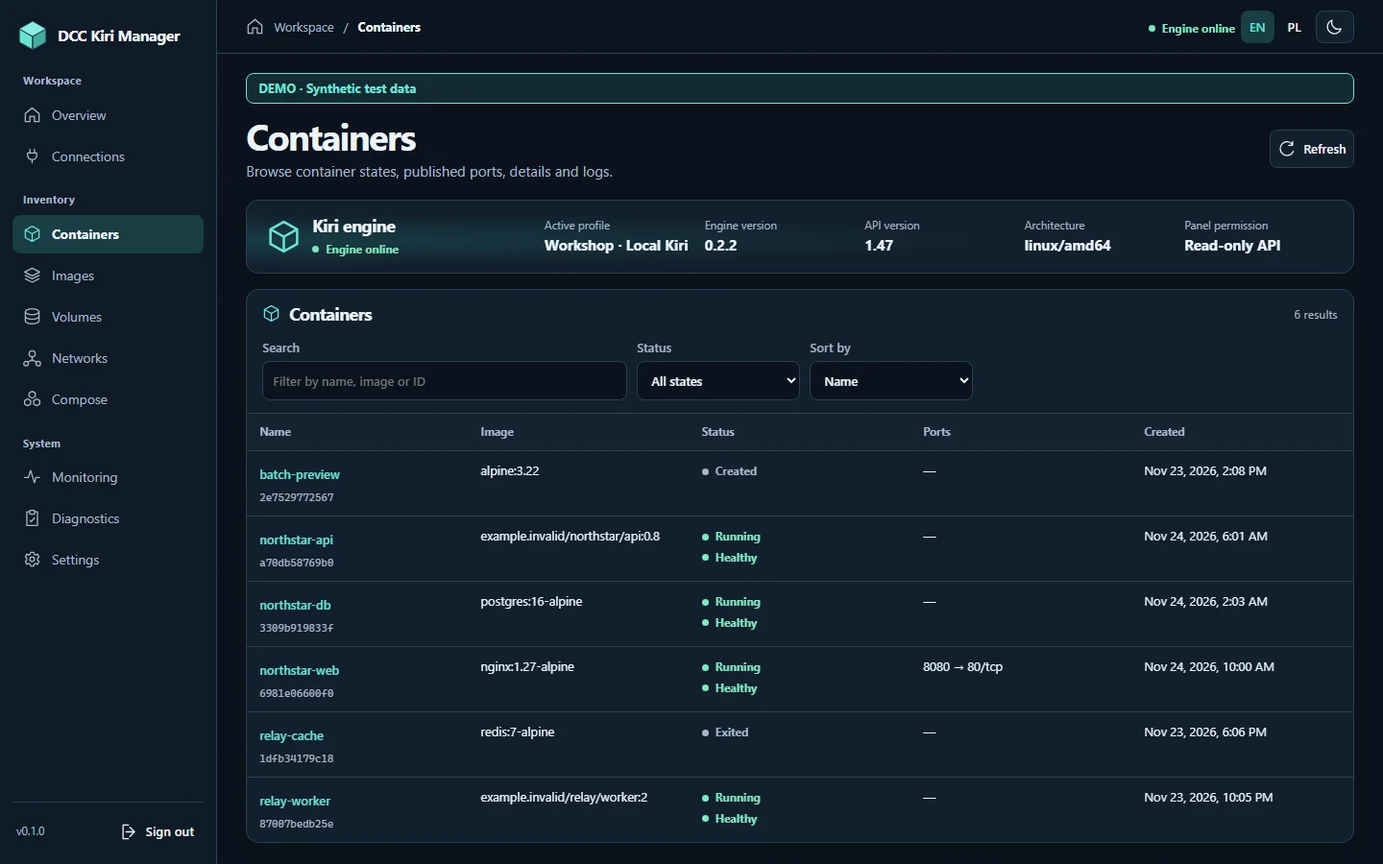
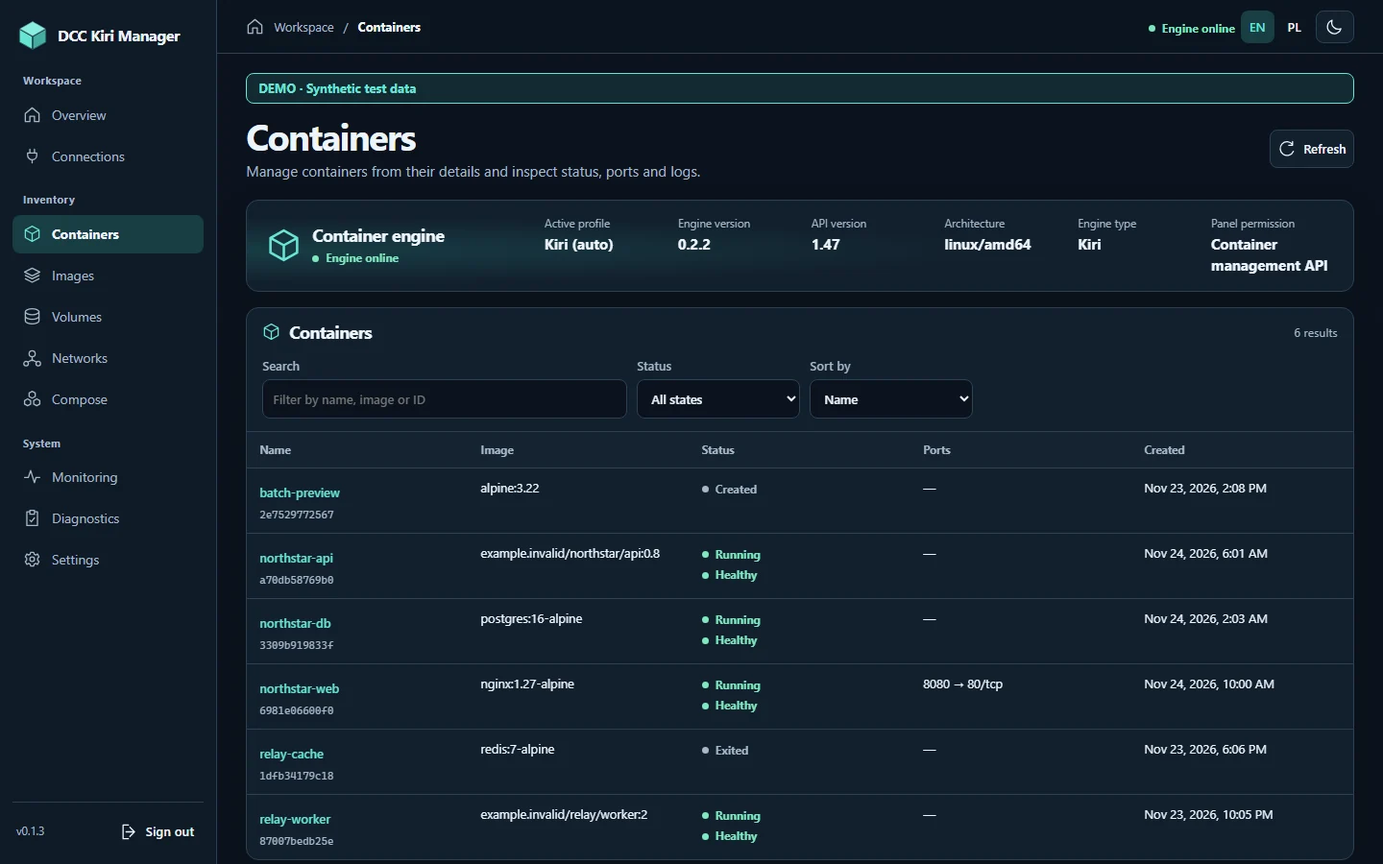
docs(kiri): publish 0.1.3 release materials

diff --git a/apps/kiri-manager/site/pl/index.html b/apps/kiri-manager/site/pl/index.html
@@ -3,11 +3,11 @@
 <head>
   <meta charset="utf-8">
   <meta name="viewport" content="width=device-width, initial-scale=1">
-  <title>DCC Kiri Manager · Panel WWW dla Kiri</title><meta name="description" content="Niezależny panel tylko do odczytu dla kontenerów Kiri, usług lokalnych i projektów Compose.">
+  <title>DCC Kiri Manager · Panel Kiri i Docker</title><meta name="description" content="Niezależny panel do zarządzania kontenerami Kiri i Docker, profilami SSH i projektami Compose.">
   <meta property="og:type" content="website"><meta property="og:locale" content="pl_PL">
-  <meta property="og:title" content="DCC Kiri Manager"><meta property="og:description" content="Niezależny panel tylko do odczytu dla kontenerów Kiri, usług lokalnych i projektów Compose.">
+  <meta property="og:title" content="DCC Kiri Manager"><meta property="og:description" content="Niezależny panel do zarządzania kontenerami Kiri i Docker, profilami SSH i projektami Compose.">
   <meta property="og:image" content="../assets/social-preview.png"><meta property="og:image:width" content="1200"><meta property="og:image:height" content="630"><meta property="og:image:alt" content="Przegląd DCC Kiri Manager z danymi testowymi">
-  <meta name="twitter:card" content="summary_large_image"><meta name="twitter:title" content="DCC Kiri Manager"><meta name="twitter:description" content="Niezależny panel tylko do odczytu dla kontenerów Kiri, usług lokalnych i projektów Compose."><meta name="twitter:image" content="../assets/social-preview.png">
+  <meta name="twitter:card" content="summary_large_image"><meta name="twitter:title" content="DCC Kiri Manager"><meta name="twitter:description" content="Niezależny panel do zarządzania kontenerami Kiri i Docker, profilami SSH i projektami Compose."><meta name="twitter:image" content="../assets/social-preview.png">
   <!-- pages-canonical -->
   <link rel="icon" href="../assets/mark.svg" type="image/svg+xml"><link rel="stylesheet" href="../assets/site.css"><script type="module" src="../assets/site.js"></script>
 </head>
@@ -23,15 +23,15 @@
   </div></header>
   <main id="main">
     <section class="frame hero">
-      <div><h1>DCC Kiri Manager</h1><p class="lead">Zobacz, co działa w Kiri.</p><p>Przeglądaj kontenery, obrazy, wolumeny, sieci i projekty Compose w jednym lekkim panelu.</p>
+      <div><h1>DCC Kiri Manager</h1><p class="lead">Zarządzaj Kiri i Docker z jednego panelu.</p><p>Przeglądaj zasoby silnika, zarządzaj kontenerami, konfiguruj zweryfikowane profile SSH i sprawdzaj projekty Compose.</p>
         <div class="buttons"><a class="button primary" href="#install">Instalacja</a><a class="button" href="https://github.com/hattimon/DCC/tree/main/apps/kiri-manager">Kod źródłowy ↗</a></div>
       </div>
       <div class="hero-image"><img id="hero-image" src="../assets/screenshots/dashboard-dark-pl.webp" data-dark="../assets/screenshots/dashboard-dark-pl.webp" data-light="../assets/screenshots/dashboard-light-pl.webp" width="1440" height="900" fetchpriority="high" alt="Przegląd DCC Kiri Manager z danymi testowymi · DEMO"></div>
     </section>
     <section class="section divider"><div class="frame pitch">
-      <div><h2>Lokalny panel dla Kiri</h2><p>Niezależny panel tylko do odczytu dla kontenerów Kiri, usług lokalnych i projektów Compose.</p><h3>Funkcje</h3>
-        <ul class="feature-list"><li>Zasoby, diagnostyka i ograniczony podgląd logów</li><li>Próbki CPU i pamięci wybranego kontenera</li><li>Projekty Compose, profile połączeń, dwa języki i motywy</li></ul></div>
-      <div><h2>Jak to działa</h2><p>Środowisko uruchamia panel, a zatwierdzony socket Unix łączy go z Kiri.</p>
+      <div><h2>Lokalny panel dla Kiri</h2><p>Niezależny panel do zarządzania kontenerami Kiri i Docker, profilami SSH i projektami Compose.</p><h3>Funkcje</h3>
+        <ul class="feature-list"><li>Start, stop, restart, pauza, wznowienie i usuwanie zatrzymanych kontenerów</li><li>Profile SSH z przypiętym kluczem hosta i szyfrowanymi poświadczeniami</li><li>Zasoby, ograniczone logi, próbki obciążenia i grupowanie Compose</li></ul></div>
+      <div><h2>Jak to działa</h2><p>Połącz się przez socket zatwierdzony przez administratora albo zweryfikowany profil SSH. Operacje wymagają potwierdzenia; wolumeny nazwane pozostają zachowane.</p>
         <ol class="flow"><li>Docker lub Kiri</li><li>DCC Kiri Manager</li><li>API silnika Kiri</li></ol>
       </div>
     </div></section>
@@ -53,8 +53,8 @@
     <section id="install" class="section divider"><div class="frame">
       <div class="section-heading"><div><h2>Instalacja</h2><p>Uruchom panel lokalnie. Kreator przeprowadzi Cię przez instalację Kiri i podłączenie zatwierdzonego socketu.</p></div><a href="https://github.com/hattimon/DCC/blob/main/apps/kiri-manager/docs/installation.pl.md">Dokumentacja ↗</a></div>
       <div class="ways">
-        <article><h3>Docker Compose</h3><p>Uruchom panel z nazwanym wolumenem i portem lokalnym. Na zgodnym hoście Linux dołącz konfigurację socketu.</p></article>
-        <article><h3>Bezpośrednio w Kiri</h3><p>Użyj zgodnego CLI, wskazując kontekst Kiri. Montowanie socketu zależy od hosta.</p></article>
+        <article><h3>Docker Compose</h3><p>Uruchom panel z nazwanym wolumenem i portem loopback. Użyj zgodnego lokalnego socketu lub dodaj zweryfikowany profil SSH.</p></article>
+        <article><h3>Bezpośrednio w Kiri</h3><p>Użyj zgodnego CLI lub zweryfikowanego profilu SSH. Dostęp do socketu zależy od konfiguracji hosta.</p></article>
         <article><h3>Sklep DCC</h3><p>DCC Kiri Manager znajdziesz w kategorii DCC. Po instalacji otwórz podany adres lokalny.</p></article>
       </div>
       <details class="install-help" id="pierwsze-logowanie">
@@ -68,7 +68,7 @@
       </div>
     </div></section>
     <section id="compatibility" class="section"><div class="frame"><h2>Zgodność</h2>
-      <p>Panel 0.1.0 przeszedł testy z Kiri Lite 0.2.2 na Ubuntu 24.04.5 LTS na amd64 i arm64. <a href="https://github.com/hattimon/DCC/actions/runs/45555032798">Wyniki GitHub Actions ↗</a></p>
+      <p>Wydanie 0.1.3 przeszło izolowane testy operacji i SSH z Dockerem oraz Kiri 0.2.2 na runnerach GitHub Ubuntu AMD64 i ARM64. Nie potwierdza to działania na prywatnym silniku Windows/WSL. <a href="https://github.com/hattimon/DCC/actions/runs/45767226482">Wyniki workflow wydania ↗</a></p>
       <table class="matrix" role="table"><thead role="rowgroup"><tr role="row"><th scope="col" role="columnheader">Host</th><th scope="col" role="columnheader">Architektura</th><th scope="col" role="columnheader">Środowisko panelu</th><th scope="col" role="columnheader">Połączenie z Kiri</th><th scope="col" role="columnheader">Status</th></tr></thead>
         <tbody role="rowgroup"><tr role="row"><td role="cell" data-label="Host">Windows 10/11</td><td role="cell" data-label="Architektura">amd64</td><td role="cell" data-label="Środowisko panelu">Docker Desktop</td><td role="cell" data-label="Połączenie z Kiri">Socket niedostępny między VM</td><td role="cell" data-label="Status"><span class="status blocked">Nieobsługiwane</span></td></tr>
         <tr role="row"><td role="cell" data-label="Host">Windows 10/11</td><td role="cell" data-label="Architektura">amd64</td><td role="cell" data-label="Środowisko panelu">Kiri / WSL2</td><td role="cell" data-label="Połączenie z Kiri">Ta sama dystrybucja WSL</td><td role="cell" data-label="Status"><span class="status">Niezweryfikowane</span></td></tr>
@@ -91,12 +91,12 @@
     </div></section>
     <section class="section divider"><div class="frame resource-grid">
       <article class="resource"><h2><a href="https://github.com/hattimon/DCC/blob/main/apps/kiri-manager/docs/installation.pl.md">Dokumentacja ↗</a></h2><p>Instalacja, konfiguracja i diagnostyka.</p></article>
-      <article class="resource"><h2><a href="https://github.com/hattimon/DCC/releases/tag/kiri-manager-v0.1.2">Wydanie ↗</a></h2><p>Wydanie GitHub i obraz OCI.</p><a href="https://github.com/hattimon/DCC/pkgs/container/dcc-kiri-manager">GHCR ↗</a></article>
+      <article class="resource"><h2><a href="https://github.com/hattimon/DCC/releases/tag/kiri-manager-v0.1.3">Wydanie 0.1.3 ↗</a></h2><p>Wydanie GitHub i wieloarchitekturowy obraz OCI.</p><a href="https://github.com/hattimon/DCC/pkgs/container/dcc-kiri-manager">GHCR ↗</a></article>
       <article class="resource"><h2><a href="https://github.com/hattimon/DCC/tree/main/apps/kiri-manager">Otwarty kod ↗</a></h2><p>Projekt DCC autorstwa hattimon na licencji MIT.</p></article>
       <article class="resource"><h2><a href="https://ko-fi.com/hattimon">Wsparcie na Ko-fi ↗</a></h2><p>Wesprzyj autora i projekty DCC.</p></article>
     </div></section>
   </main>
-  <footer class="frame foot"><a class="brand" href="https://github.com/hattimon/DCC"><img src="../assets/mark.svg" width="34" height="34" alt="">Ekosystem DCC</a><span>v0.1.2 · EKSPERYMENTALNA</span>
+  <footer class="frame foot"><a class="brand" href="https://github.com/hattimon/DCC"><img src="../assets/mark.svg" width="34" height="34" alt="">Ekosystem DCC</a><span>v0.1.3 · EKSPERYMENTALNA</span>
     <nav><a href="https://github.com/hattimon/DCC">GitHub</a><a href="https://github.com/hattimon/DCC/blob/main/apps/kiri-manager/docs/installation.pl.md">Dokumentacja</a><a href="https://github.com/hattimon/DCC/blob/main/LICENSE">Licencja</a></nav>
   </footer>
   <dialog id="lightbox" aria-labelledby="shot-title">

diff --git a/apps/kiri-manager/site/index.html b/apps/kiri-manager/site/index.html
@@ -3,11 +3,11 @@
 <head>
   <meta charset="utf-8">
   <meta name="viewport" content="width=device-width, initial-scale=1">
-  <title>DCC Kiri Manager · Web dashboard for Kiri</title><meta name="description" content="Independent, read-only workspace for Kiri containers, Compose and local workloads.">
+  <title>DCC Kiri Manager · Kiri and Docker workspace</title><meta name="description" content="Independent workspace to manage Kiri and Docker containers, SSH profiles and Compose workloads.">
   <meta property="og:type" content="website"><meta property="og:locale" content="en_US">
-  <meta property="og:title" content="DCC Kiri Manager"><meta property="og:description" content="Independent, read-only workspace for Kiri containers, Compose and local workloads.">
+  <meta property="og:title" content="DCC Kiri Manager"><meta property="og:description" content="Manage Kiri and Docker containers, SSH profiles and Compose workloads.">
   <meta property="og:image" content="assets/social-preview.png"><meta property="og:image:width" content="1200"><meta property="og:image:height" content="630"><meta property="og:image:alt" content="DCC Kiri Manager overview with test data">
-  <meta name="twitter:card" content="summary_large_image"><meta name="twitter:title" content="DCC Kiri Manager"><meta name="twitter:description" content="Independent, read-only workspace for Kiri containers, Compose and local workloads."><meta name="twitter:image" content="assets/social-preview.png">
+  <meta name="twitter:card" content="summary_large_image"><meta name="twitter:title" content="DCC Kiri Manager"><meta name="twitter:description" content="Manage Kiri and Docker containers, SSH profiles and Compose workloads."><meta name="twitter:image" content="assets/social-preview.png">
   <!-- pages-canonical -->
   <link rel="icon" href="assets/mark.svg" type="image/svg+xml"><link rel="stylesheet" href="assets/site.css"><script type="module" src="assets/site.js"></script>
 </head>
@@ -23,15 +23,15 @@
   </div></header>
   <main id="main">
     <section class="frame hero">
-      <div><h1>DCC Kiri Manager</h1><p class="lead">See what’s running on Kiri.</p><p>Inspect containers, images, volumes, networks and Compose projects from one lightweight dashboard.</p>
+      <div><h1>DCC Kiri Manager</h1><p class="lead">Manage Kiri and Docker from one workspace.</p><p>Inspect engine resources, manage container lifecycle, configure verified SSH profiles and review Compose projects.</p>
         <div class="buttons"><a class="button primary" href="#install">Installation</a><a class="button" href="https://github.com/hattimon/DCC/tree/main/apps/kiri-manager">Browse source ↗</a></div>
       </div>
       <div class="hero-image"><img id="hero-image" src="assets/screenshots/dashboard-dark.webp" data-dark="assets/screenshots/dashboard-dark.webp" data-light="assets/screenshots/dashboard-light.webp" width="1440" height="900" fetchpriority="high" alt="DCC Kiri Manager overview with test data · DEMO"></div>
     </section>
     <section class="section divider"><div class="frame pitch">
-      <div><h2>A local workspace for Kiri</h2><p>Independent, read-only workspace for Kiri containers, Compose and local workloads.</p><h3>Features</h3>
-        <ul class="feature-list"><li>Inventory, diagnostics and bounded logs</li><li>CPU and memory samples from a selected container</li><li>Compose grouping, connection profiles, two languages and themes</li></ul></div>
-      <div><h2>How it works</h2><p>The runtime starts the panel. An approved Unix socket connects the panel to Kiri.</p>
+      <div><h2>A local workspace for Kiri</h2><p>Manage containers on Kiri and Docker engines with a bilingual local dashboard.</p><h3>Features</h3>
+        <ul class="feature-list"><li>Start, stop, restart, pause, resume and remove stopped containers</li><li>SSH profiles with pinned host keys and encrypted credentials</li><li>Inventory, bounded logs, resource samples and Compose grouping</li></ul></div>
+      <div><h2>How it works</h2><p>Connect through an administrator-approved local socket or a verified SSH profile. Container actions require confirmation; named volumes are preserved.</p>
         <ol class="flow"><li>Docker or Kiri</li><li>DCC Kiri Manager</li><li>Kiri Engine API</li></ol>
       </div>
     </div></section>
@@ -53,8 +53,8 @@
     <section id="install" class="section divider"><div class="frame">
       <div class="section-heading"><div><h2>Installation</h2><p>Start the panel locally. The wizard guides setup of Kiri and the approved socket.</p></div><a href="https://github.com/hattimon/DCC/blob/main/apps/kiri-manager/docs/installation.md">Documentation ↗</a></div>
       <div class="ways">
-        <article><h3>Docker Compose</h3><p>Run the panel with a named volume and a loopback port. Use the socket overlay on a compatible Linux host.</p></article>
-        <article><h3>Directly on Kiri</h3><p>Use the Docker-compatible CLI with the Kiri context. Socket mounting depends on the host.</p></article>
+        <article><h3>Docker Compose</h3><p>Run the panel with a named volume and loopback port. Use a compatible local socket or add a verified SSH profile.</p></article>
+        <article><h3>Directly on Kiri</h3><p>Use the Docker-compatible CLI or a verified SSH profile. Socket access depends on the host configuration.</p></article>
         <article><h3>DCC Store</h3><p>Find DCC Kiri Manager in the DCC category. Open the local address shown after installation.</p></article>
       </div>
       <details class="install-help" id="first-sign-in">
@@ -68,7 +68,7 @@
       </div>
     </div></section>
     <section id="compatibility" class="section"><div class="frame"><h2>Compatibility</h2>
-      <p>Panel 0.1.0 passed integration with Kiri Lite 0.2.2 on Ubuntu 24.04.5 LTS for amd64 and arm64. <a href="https://github.com/hattimon/DCC/actions/runs/45555032798">GitHub Actions results ↗</a></p>
+      <p>Release 0.1.3 passed isolated Docker and Kiri 0.2.2 lifecycle and SSH integration on GitHub-hosted Ubuntu runners for AMD64 and ARM64. This does not verify a user's Windows/WSL engine. <a href="https://github.com/hattimon/DCC/actions/runs/45767226482">Release workflow results ↗</a></p>
       <table class="matrix" role="table"><thead role="rowgroup"><tr role="row"><th scope="col" role="columnheader">Host</th><th scope="col" role="columnheader">Architecture</th><th scope="col" role="columnheader">Panel runtime</th><th scope="col" role="columnheader">Kiri connection</th><th scope="col" role="columnheader">Status</th></tr></thead>
         <tbody role="rowgroup"><tr role="row"><td role="cell" data-label="Host">Windows 10/11</td><td role="cell" data-label="Architecture">amd64</td><td role="cell" data-label="Panel runtime">Docker Desktop</td><td role="cell" data-label="Kiri connection">Cross-VM socket unavailable</td><td role="cell" data-label="Status"><span class="status blocked">Unsupported</span></td></tr>
         <tr role="row"><td role="cell" data-label="Host">Windows 10/11</td><td role="cell" data-label="Architecture">amd64</td><td role="cell" data-label="Panel runtime">Kiri / WSL2</td><td role="cell" data-label="Kiri connection">Same WSL distribution</td><td role="cell" data-label="Status"><span class="status">Not verified</span></td></tr>
@@ -91,12 +91,12 @@
     </div></section>
     <section class="section divider"><div class="frame resource-grid">
       <article class="resource"><h2><a href="https://github.com/hattimon/DCC/blob/main/apps/kiri-manager/docs/installation.md">Documentation ↗</a></h2><p>Install, configure and troubleshoot.</p></article>
-      <article class="resource"><h2><a href="https://github.com/hattimon/DCC/releases/tag/kiri-manager-v0.1.2">Release ↗</a></h2><p>GitHub release and OCI image.</p><a href="https://github.com/hattimon/DCC/pkgs/container/dcc-kiri-manager">GHCR ↗</a></article>
+      <article class="resource"><h2><a href="https://github.com/hattimon/DCC/releases/tag/kiri-manager-v0.1.3">Release 0.1.3 ↗</a></h2><p>GitHub release and multi-architecture OCI image.</p><a href="https://github.com/hattimon/DCC/pkgs/container/dcc-kiri-manager">GHCR ↗</a></article>
       <article class="resource"><h2><a href="https://github.com/hattimon/DCC/tree/main/apps/kiri-manager">Open source ↗</a></h2><p>MIT-licensed DCC project by hattimon.</p></article>
       <article class="resource"><h2><a href="https://ko-fi.com/hattimon">Support on Ko-fi ↗</a></h2><p>Support the author and DCC projects.</p></article>
     </div></section>
   </main>
-  <footer class="frame foot"><a class="brand" href="https://github.com/hattimon/DCC"><img src="assets/mark.svg" width="34" height="34" alt="">DCC ecosystem</a><span>v0.1.2 · EXPERIMENTAL</span>
+  <footer class="frame foot"><a class="brand" href="https://github.com/hattimon/DCC"><img src="assets/mark.svg" width="34" height="34" alt="">DCC ecosystem</a><span>v0.1.3 · EXPERIMENTAL</span>
     <nav><a href="https://github.com/hattimon/DCC">GitHub</a><a href="https://github.com/hattimon/DCC/blob/main/apps/kiri-manager/docs/installation.md">Documentation</a><a href="https://github.com/hattimon/DCC/blob/main/LICENSE">License</a></nav>
   </footer>
   <dialog id="lightbox" aria-labelledby="shot-title">

diff --git a/apps/kiri-manager/tools/capture_assets.py b/apps/kiri-manager/tools/capture_assets.py
@@ -46,7 +46,7 @@ def main():
     draw.line((79, 77, 79, 99), fill="#10343b", width=2)
     draw.text((44, 181), "DCC Kiri", font=font("bold", 65), fill="#edf4fb")
     draw.text((44, 255), "Manager", font=font("bold", 65), fill="#edf4fb")
-    draw.text((48, 360), "A read-only web dashboard\nfor Kiri containers and Compose.",
+    draw.text((48, 360), "Manage Kiri containers\nand SSH profiles.",
               font=font("regular", 24), fill="#a7b8c9", spacing=8)
     with Image.open(args.source / "dashboard-dark.png") as image:
         image = image.convert("RGB")

diff --git a/apps/kiri-manager/docs/release.md b/apps/kiri-manager/docs/release.md
@@ -1,12 +1,12 @@
 # Releasing Kiri Manager
 
-The planned independent tag is `kiri-manager-v0.1.3`; 0.1.2 remains published. The target repository is `ghcr.io/hattimon/dcc-kiri-manager`. Maintain independent versioning and source paths under `apps/kiri-manager/`.
+Release `kiri-manager-v0.1.3` is published from merge commit `233f5b615cab1f31a954a497d73b6464cab26838`. OCI image `ghcr.io/hattimon/dcc-kiri-manager:0.1.3` is published for AMD64 and ARM64. Keep Kiri Manager independently versioned under `apps/kiri-manager/`; do not change DCC Desktop's global latest release.
 
 1. Review the application-only pull request. The Store entry is prepared as a separate local change, so the published catalog can follow the verified OCI image.
 2. Check the Kiri Manager workflow on the same-repository pull request. The integration jobs use disposable GitHub-hosted Linux runners for both architectures. They check Kiri identity, the real inventory, logs, stats, all six lifecycle operations on a disposable container, named-volume retention and persistence from Docker and directly from Kiri. The Docker smoke jobs also exercise the 0.1.2 to 0.1.3 migration and rollback by restoring the schema 2 backup. After the application lands, the same checks can also be dispatched from the default branch with `live=true` and `publish=false`.
 3. Resolve failures, update the compatibility matrix and record environment versions. The native integration jobs also run `tests/ssh_integration.py` against loopback OpenSSH on disposable GitHub-hosted runners for both Kiri and Docker: pinned key acceptance, wrong-key rejection, password and encrypted private-key authentication, inventory, lifecycle operations and volume retention. Require successful runs before publication; these checks do not establish compatibility with the user's WSL host. After approval, create the independent tag at the reviewed source commit and manually dispatch publication at that exact tag. Configure required reviewers for `kiri-manager-release`. The PUBLISH job depends on VERIFY, BUILD, the Docker smoke jobs and real Kiri and SSH integration.
 4. Verify the registry's version, `latest` and `sha-<commit>` indexes against the OCI archive and both platform digests. The workflow compares them after upload. A published version or commit tag requires a matching digest.
-5. Dispatch the Pages workflow with `publish=true` after approval. It confirms the Pages URL and the existing ownership marker before updating the project site. The deployment includes a root link to `kiri-manager/`.
+5. Dispatch the Pages workflow with `publish=true` after the versioned image is verified. It confirms the Pages URL and existing ownership marker before updating the project site. The deployment includes a root link to `kiri-manager/`.
 6. On the deployed project site, verify HTTPS, both locales, navigation at mobile width, images, share metadata and browser console. [Project site](https://hattimon.github.io/DCC/kiri-manager/).
 7. Publish the GitHub release using the English and Polish release notes. Use `gh release … --latest=false --notes-file` with UTF-8 input. Verify the tag and OCI digests on GitHub. [Release notes](../RELEASE_NOTES_0.1.3.md).
 8. Merge the dedicated Store change after the versioned image and project page are verified. Use `python tools/catalog_review.py --output <new-file>` to preview the change. Check the loopback port, dedicated volume and category **DCC**. Entries for other apps should compare byte for byte.

diff --git a/apps/kiri-manager/docs/verification.md b/apps/kiri-manager/docs/verification.md
@@ -1,13 +1,15 @@
-# Weryfikacja kandydata 0.1.3
+# Weryfikacja wydania 0.1.3
 
-26 listopada 2026, Windows, lokalny worktree codex/kiri-catalog-012, HEAD c1bbd98.
+26 listopada 2026. Źródło: merge commit `233f5b615cab1f31a954a497d73b6464cab26838`; niezależny tag `kiri-manager-v0.1.3`. Publikacyjny workflow [45767226482](https://github.com/hattimon/DCC/actions/runs/45767226482) zakończył sukcesem wszystkie zadania.
 
-- Python: 49 zaliczonych, 3 pominięte (Unix socket na Windows), łącznie 52. Testy obejmują migrację 2 → 3, kopię do rollbacku, zachowanie profili, szyfrowanie i utratę klucza, tożsamość silnika, sesję/CSRF/revision, wszystkie sześć metod API, zabezpieczenia usuwania, brak ponawiania mutacji i symulowany SSH.
-- Node: 5/5, kontrola składni JS/MJS zakończona powodzeniem. Python compileall, pip check, catalog_review i lokalny preview Pages zakończone powodzeniem. git diff --check bez błędów; ostrzeżenie CRLF dla Dockerfile.
-- Playwright: Chromium uruchomił się po wskazaniu istniejącego cache, lecz lokalny fixture Waitress nie wystartował: WinError 10013 przy połączeniu loopback. Scenariusze przeglądarkowe 0.1.3 nie zostały wykonane. Ruff nie jest zainstalowany w dostępnych venv.
-- Testy Python korzystały z cryptography 48.0.1 i Paramiko 5.0.0. Przypięta cryptography 50.0.1 nie została zweryfikowana w tym środowisku. Nie instalowano zależności systemowych.
-- Przygotowano CI z przypiętym obrazem 0.1.2, testem odtworzenia kopii schematu 2 i osobnym kontenerem oraz wolumenem do wszystkich akcji w Kiri na izolowanych runnerach. CI, obraz OCI amd64/arm64, rzeczywisty SSH i operacje Kiri nie zostały uruchomione.
-- Brak jednoznacznie potwierdzonego grantu DCC MCP dla Kiri Ubuntu WSL. Nie wykonano operacji na hostach. 0.1.3 pozostaje lokalnym kandydatem bez publikacji lub wdrożenia. Publiczna strona i katalog nadal opisują 0.1.2.
+- `VERIFY`: Python/security, Ruff, Node i Playwright zakończone powodzeniem. Lokalny przebieg galerii na aktualnym kodzie Chromium: 13/13 scenariuszy PASS (pierwsze logowanie, sześć rozdzielczości panelu oraz sześć rozdzielczości strony).
+- OCI, Docker i Kiri: build multiarch, smoke z poprzednim wydaniem i rollback, testy Kiri 0.2.2 na runnerach GitHub dla AMD64 i ARM64 — PASS. Real SSH do Docker i Kiri: hasło i klucz prywatny, poprawny klucz hosta, odrzucenie błędnego klucza, sześć operacji lifecycle i zachowanie wolumenów — PASS.
+- GHCR indeks `sha256:02268eb6f8d30bed7bc43529c1bdf4dece978dd2cf42f02629097f052d76757a`; manifest AMD64 `sha256:4fdd4add681e6272893ac26ddb4e7bca3a13ff9331546521f86a54ce6941eb12`; ARM64 `sha256:953586b7e2fe5fcd79175799d7c13e998e0119b1603f7d87cb6d2d1c91ca54bd`. Registry niezależnie potwierdziło identyczny indeks dla tagów `0.1.3`, `latest` i `sha-233f5b615cab1f31a954a497d73b6464cab26838`.
[1 lines of base64/hex data omitted]
+- Zrzuty strony i panelu 0.1.3 wygenerowano z testowego Chromium; syntetyczne dane oznaczono jako DEMO. Testy runnerów nie potwierdzają dostępu do prywatnego silnika Windows/WSL ani aktualizacji jego danych; zobacz macierz zgodności.
+- GitHub Release 0.1.3 jest niezależny od DCC Desktop. Globalne GitHub `Latest` pozostaje `v1.3.12`.
+
+---
 
 ---
 # Weryfikacja 0.1.2

diff --git a/apps/kiri-manager/RELEASE_NOTES_0.1.3.md b/apps/kiri-manager/RELEASE_NOTES_0.1.3.md
@@ -1,17 +1,17 @@
-# DCC Kiri Manager 0.1.3 — review candidate / kandydat
+# DCC Kiri Manager 0.1.3
 
-**Unpublished / Nieopublikowany.**
-
-- Container start, stop, restart, pause, resume and stopped-only removal with explicit confirmation and volume preservation.
-- SSH profiles for Kiri and Docker with pinned host keys, password/private key authentication and encrypted credentials.
-- Transactional schema 3 migration, previous database backup, private master-key, PL/EN forms and diagnostic errors.
-- Live lifecycle and SSH compatibility, OCI builds and release verification are required before publication. No changes to the published catalog, desktop installation image or default 0.1.2 Compose image yet.
+- Manage container lifecycle: start, stop, restart, pause, resume and remove stopped containers with explicit confirmation; named volumes are preserved.
+- Create SSH profiles for Kiri and Docker with pinned host keys, password or private-key authentication, and encrypted credentials at rest.
+- Migrate settings transactionally to schema 3 with a schema 2 backup, private master key, bilingual forms and actionable connection diagnostics.
+- Verified on disposable GitHub-hosted Linux AMD64 and ARM64 runners with Kiri 0.2.2 and Docker, including lifecycle, SSH, volume retention, image upgrade and rollback.
+- Windows/WSL access on a user's own engine is not covered by the isolated runner results; see the compatibility matrix.
 
 ---
 
-- Uruchamianie, zatrzymywanie, restart, pauza, wznowienie i usuwanie zatrzymanych kontenerów z jawnym potwierdzeniem i zachowaniem wolumenów.
-- Profile SSH dla Kiri i Docker z przypiętym kluczem hosta, hasłem lub kluczem prywatnym i szyfrowaniem poświadczeń.
-- Transakcyjna migracja schematu 3, kopia poprzedniej bazy, prywatny master-key, formularze PL/EN i komunikaty diagnostyczne.
-- Przed publikacją wymagane są testy rzeczywistego silnika, SSH, obrazów OCI i wydania. Publiczny katalog, instalator desktopowy i domyślny obraz Compose nadal wskazują 0.1.2.
+- Zarządzanie cyklem życia kontenerów: start, stop, restart, pauza, wznowienie i usuwanie zatrzymanych kontenerów po potwierdzeniu; wolumeny nazwane są zachowane.
+- Profile SSH dla Kiri i Docker z przypiętymi kluczami hostów, uwierzytelnianiem hasłem lub kluczem prywatnym oraz szyfrowaniem poświadczeń w spoczynku.
+- Transakcyjna migracja ustawień do schematu 3 z kopią schematu 2, prywatnym kluczem głównym, formularzami PL/EN i czytelną diagnostyką połączeń.
+- Weryfikacja na izolowanych runnerach GitHub Actions Linux AMD64 i ARM64 z Kiri 0.2.2 i Dockerem obejmuje operacje, SSH, zachowanie wolumenów, aktualizację obrazu i rollback.
+- Wyniki izolowanych runnerów nie potwierdzają dostępu Windows/WSL do silnika użytkownika; szczegóły zawiera macierz zgodności.
 
-See [security](docs/security.md), [API](docs/api.md), [installation](docs/installation.md) and [compatibility](docs/compatibility.md).
+See [security](https://github.com/hattimon/DCC/blob/kiri-manager-v0.1.3/apps/kiri-manager/docs/security.md), [API](https://github.com/hattimon/DCC/blob/kiri-manager-v0.1.3/apps/kiri-manager/docs/api.md), [installation](https://github.com/hattimon/DCC/blob/kiri-manager-v0.1.3/apps/kiri-manager/docs/installation.md) and [compatibility](https://github.com/hattimon/DCC/blob/kiri-manager-v0.1.3/apps/kiri-manager/docs/compatibility.md).

diff --git a/apps/kiri-manager/docs/compatibility.md b/apps/kiri-manager/docs/compatibility.md
@@ -1,6 +1,6 @@
 # Platform compatibility
 
-Published panel image 0.1.2; local candidate 0.1.3 adds lifecycle operations and SSH. Historical evidence below applies to the recorded versions, not to 0.1.3 writes or SSH; previously recorded native Linux integration used panel 0.1.0 with Kiri 0.2.2. **SUPPORTED** requires a complete, documented real-engine run on that configuration. **EXPERIMENTAL** is a limited candidate path, **NOT VERIFIED** lacks end-to-end evidence, and **UNSUPPORTED** has no transport or architecture in this release.
+Published panel image 0.1.3. Disposable GitHub-hosted Ubuntu 24.04.5 runners verified the 0.1.3 image with Kiri 0.2.2 and Docker on AMD64 and ARM64, including lifecycle actions, volume retention, SSH password and encrypted-key authentication, and host-key rejection. These runs establish compatibility on the isolated runner configuration; they do not establish access to an individual Windows/WSL installation. **SUPPORTED** denotes a complete integration run on the stated configuration. **EXPERIMENTAL** is limited evidence, **NOT VERIFIED** lacks end-to-end evidence, and **UNSUPPORTED** has no supported transport or architecture in this release.
 
 Local OCI builds covered `linux/amd64` and `linux/arm64`. A Windows/amd64 operator confirmed that the native Docker CLI connected to Kiri 0.2.2 in context `kiri`, negotiated API 1.47 (server range 1.24–1.47) and saw Kiri's Linux/amd64 engine. That CLI observation is separate from the panel's own socket, API reads and OCI checks.
 
@@ -30,4 +30,4 @@ The supported rows cover panel 0.1.0 with Kiri Lite 0.2.2 on Ubuntu 24.04.5 LTS.
 
 **How to read the table.** Image build, container startup, Kiri availability, connector transport, API response formats and operation-by-operation behavior are independent. Unsupported connection rows can still be used in configuration mode if that runtime can start the image. Chromium and mock results do not establish production interoperability. See [audit](kiri-audit.md), [verification](verification.md) and [upstream install matrix](https://docs.runkiri.com/install/).
 
-Candidate 0.1.3: SSH to Kiri or Docker over the fixed remote CLI and all six lifecycle actions remain **NOT VERIFIED** on a real engine. Synthetic tests check protocol framing, identity, no reconnect for mutations, confirmation and volume-preserving deletion. A real SSH endpoint must retain the engine Server header and support persistent HTTP on dial-stdio.
+For release 0.1.3, SSH to Kiri and Docker over the fixed remote CLI and all six lifecycle actions passed on disposable GitHub-hosted runners for both architectures. The tests verified pinned host-key acceptance, rejection of a wrong key, password and encrypted private-key authentication, inventory, lifecycle operations and named-volume retention. A user's Windows/WSL engine was not used for release testing; cross-VM socket access remains **NOT VERIFIED**. A real SSH endpoint must retain the engine Server header and support persistent HTTP on dial-stdio.

diff --git a/apps/kiri-manager/README.pl.md b/apps/kiri-manager/README.pl.md
@@ -1,10 +1,10 @@
-# DCC Kiri Manager 0.1.3 (kandydat do przeglądu)
+# DCC Kiri Manager 0.1.3
 
 **Wersja eksperymentalna**. Samodzielny panel WWW do zarządzania zasobami silników Kiri i Docker w repozytorium Docker Control Center (DCC). Kiri rozwija libracoder. Nazwy Kiri i Docker identyfikują oprogramowanie, z którym współpracuje panel.
 
 ![Ciemny przegląd DCC Kiri Manager z syntetycznymi danymi testowymi](site/assets/screenshots/dashboard-dark-pl.webp)
 
-[English](README.md) · [Strona projektu](https://hattimon.github.io/DCC/kiri-manager/pl/) · [Wydanie GitHub](https://github.com/hattimon/DCC/releases/tag/kiri-manager-v0.1.2) · [Pakiet GHCR](https://github.com/hattimon/DCC/pkgs/container/dcc-kiri-manager) · [Wsparcie autora na Ko-fi](https://ko-fi.com/hattimon)
+[English](README.md) · [Strona projektu](https://hattimon.github.io/DCC/kiri-manager/pl/) · [Wydanie GitHub](https://github.com/hattimon/DCC/releases/tag/kiri-manager-v0.1.3) · [Pakiet GHCR](https://github.com/hattimon/DCC/pkgs/container/dcc-kiri-manager) · [Wsparcie autora na Ko-fi](https://ko-fi.com/hattimon)
 
 ## Funkcje
 
@@ -17,7 +17,7 @@
 
 ## Instalacja i połączenie
 
-**Opublikowana wersja: 0.1.2.** Kandydat 0.1.3 nie został wydany; przed testami przeczytaj [notatki](RELEASE_NOTES_0.1.3.md). Zainstaluj opublikowany panel w kategorii **DCC** w Sklepie DCC albo uruchom `docker compose up -d` z tego katalogu. Otwórz panel na hoście Docker. Przy pierwszym logowaniu użyj `admin` jako nazwy użytkownika i hasła. Przed wejściem do panelu ustaw własne hasło i w razie potrzeby zmień nazwę użytkownika. Konfiguracja i odzyskiwanie dostępu z terminala są w zwijanej sekcji na ekranie logowania. [Panel lokalny](http://127.0.0.1:8796) · [Instalacja i reset hasła](docs/installation.pl.md).
+**Opublikowana wersja: 0.1.3.** Zainstaluj panel w kategorii **DCC** w Sklepie DCC albo uruchom `docker compose up -d` z tego katalogu. Otwórz panel na hoście Docker. Przy pierwszym logowaniu użyj `admin` jako nazwy użytkownika i hasła. Przed wejściem do panelu ustaw własne hasło i w razie potrzeby zmień nazwę użytkownika. Konfiguracja i odzyskiwanie dostępu z terminala są w zwijanej sekcji na ekranie logowania. [Panel lokalny](http://127.0.0.1:8796) · [Instalacja i reset hasła](docs/installation.pl.md).
 
 W DCC na Windows otwórz **Sklep → DCC Kiri Manager**. Aplikacja sprawdzi oficjalny potok Kiri i zaproponuje **Połącz** lub **Zainstaluj Kiri** (oficjalna instrukcja instalatora). Po połączeniu z potwierdzonym silnikiem instalacja panelu wymaga jawnej zgody administratora i udanego testu socketu wewnątrz tymczasowego kontenera Kiri. Niepowodzenie testu nie zmienia istniejącego panelu ani wolumenu `dcc_kiri_manager_data`. Panel WWW sam wykrywa wyłącznie sockety wcześniej udostępnione przez administratora; ręczny kreator aliasów jest opcją zaawansowaną. Pomocnik Debiana/Ubuntu nadal wymaga zgody na hoście.
 

diff --git a/apps/kiri-manager/README.md b/apps/kiri-manager/README.md
@@ -1,10 +1,10 @@
-# DCC Kiri Manager 0.1.3 (review candidate)
+# DCC Kiri Manager 0.1.3
 
 **Experimental**. An independent browser workspace for Kiri and Docker engines, maintained in the Docker Control Center (DCC) repository. Kiri is developed by libracoder. References to Kiri and Docker identify the software used by the panel.
 
 ![DCC Kiri Manager dark overview with synthetic test data](site/assets/screenshots/dashboard-dark.webp)
 
-[Polski](README.pl.md) · [Project site](https://hattimon.github.io/DCC/kiri-manager/) · [GitHub release](https://github.com/hattimon/DCC/releases/tag/kiri-manager-v0.1.2) · [GHCR package](https://github.com/hattimon/DCC/pkgs/container/dcc-kiri-manager) · [Support the author on Ko-fi](https://ko-fi.com/hattimon)
+[Polski](README.pl.md) · [Project site](https://hattimon.github.io/DCC/kiri-manager/) · [GitHub release](https://github.com/hattimon/DCC/releases/tag/kiri-manager-v0.1.3) · [GHCR package](https://github.com/hattimon/DCC/pkgs/container/dcc-kiri-manager) · [Support the author on Ko-fi](https://ko-fi.com/hattimon)
 
 ## What it does
 
@@ -17,7 +17,7 @@
 
 ## Install and connect
 
-**Published version: 0.1.2.** The 0.1.3 candidate is not released; see [review notes](RELEASE_NOTES_0.1.3.md) before testing. Install the published version from the DCC Store under **DCC**, or run `docker compose up -d` from this directory. Open the panel on the Docker host. If no administrator has been configured, enter `admin` as the username and password. Choose a new password and optionally change the username before entering the panel. Expand the terminal help on the sign-in screen for account setup or recovery. [Local panel](http://127.0.0.1:8796) · [Installation and reset instructions](docs/installation.md).
+**Published version: 0.1.3.** Install the panel from the DCC Store under **DCC**, or run `docker compose up -d` from this directory. Open the panel on the Docker host. If no administrator has been configured, enter `admin` as the username and password. Choose a new password and optionally change the username before entering the panel. Expand the terminal help on the sign-in screen for account setup or recovery. [Local panel](http://127.0.0.1:8796) · [Installation and reset instructions](docs/installation.md).
 
 In DCC for Windows, open the Store's **DCC Kiri Manager** entry. DCC checks Kiri's documented Windows named pipe and offers **Connect** or **Install Kiri** (official installer guidance). Once connected to a verified Kiri engine, panel installation requires explicit administrator approval and a successful socket preflight from inside a disposable Kiri container. Failed preflights leave the running panel and `dcc_kiri_manager_data` volume untouched. The web panel automatically discovers only sockets already granted by an administrator; its advanced manual alias wizard is optional. The Debian/Ubuntu helper remains available for administrator-managed installation.
 

diff --git a/apps/kiri-manager/docs/installation.md b/apps/kiri-manager/docs/installation.md
@@ -31,7 +31,7 @@ docker run -d --name dcc-kiri-manager --restart unless-stopped \
   -p 127.0.0.1:8796:8796 --volume dcc_kiri_manager_data:/data \
   --read-only --tmpfs /tmp:size=8m,mode=1777 --cap-drop ALL \
   --security-opt no-new-privileges:true --memory 192m --pids-limit 40 \
-  ghcr.io/hattimon/dcc-kiri-manager:0.1.2
+  ghcr.io/hattimon/dcc-kiri-manager:0.1.3
 ```
 
 ## Terminal setup and password reset
@@ -103,7 +103,7 @@ docker --host "unix://$socket" run -d --name dcc-kiri-manager \
   --group-add "$gid" -e 'KIRI_SOCKETS={"local":"/run/dcc-kiri/engine.sock"}' \
   --cap-drop ALL --security-opt no-new-privileges:true --read-only \
   --tmpfs /tmp:size=8m,mode=1777 --restart unless-stopped \
-  ghcr.io/hattimon/dcc-kiri-manager:0.1.2
+  ghcr.io/hattimon/dcc-kiri-manager:0.1.3
 ```
 
 The integration run confirmed the socket mount, loopback port, non-root startup and retained configuration after a panel restart on both architectures. It loaded the image from the verified archive on each runner. [Integration results](verification.md#integracja-na-github-actions).

diff --git a/apps/kiri-manager/docs/installation.pl.md b/apps/kiri-manager/docs/installation.pl.md
@@ -31,7 +31,7 @@ docker run -d --name dcc-kiri-manager --restart unless-stopped \
   -p 127.0.0.1:8796:8796 --volume dcc_kiri_manager_data:/data \
   --read-only --tmpfs /tmp:size=8m,mode=1777 --cap-drop ALL \
   --security-opt no-new-privileges:true --memory 192m --pids-limit 40 \
-  ghcr.io/hattimon/dcc-kiri-manager:0.1.2
+  ghcr.io/hattimon/dcc-kiri-manager:0.1.3
 ```
 
 ## Konfiguracja i reset z terminala
@@ -99,7 +99,7 @@ docker --host "unix://$socket" run -d --name dcc-kiri-manager \
   --group-add "$gid" -e 'KIRI_SOCKETS={"local":"/run/dcc-kiri/engine.sock"}' \
   --cap-drop ALL --security-opt no-new-privileges:true --read-only \
   --tmpfs /tmp:size=8m,mode=1777 --restart unless-stopped \
-  ghcr.io/hattimon/dcc-kiri-manager:0.1.2
+  ghcr.io/hattimon/dcc-kiri-manager:0.1.3
 ```
 
 Raspberry Pi 4/5 wymaga systemu 64-bitowego, obrazu arm64 i zgodnego jądra z systemd/cgroups. Dostępność pakietu upstream dla Linux ARM64 nie jest potwierdzeniem działania na Raspberry Pi. Oba modele mają status **NOT VERIFIED**. [Macierz zgodności](compatibility.md).
